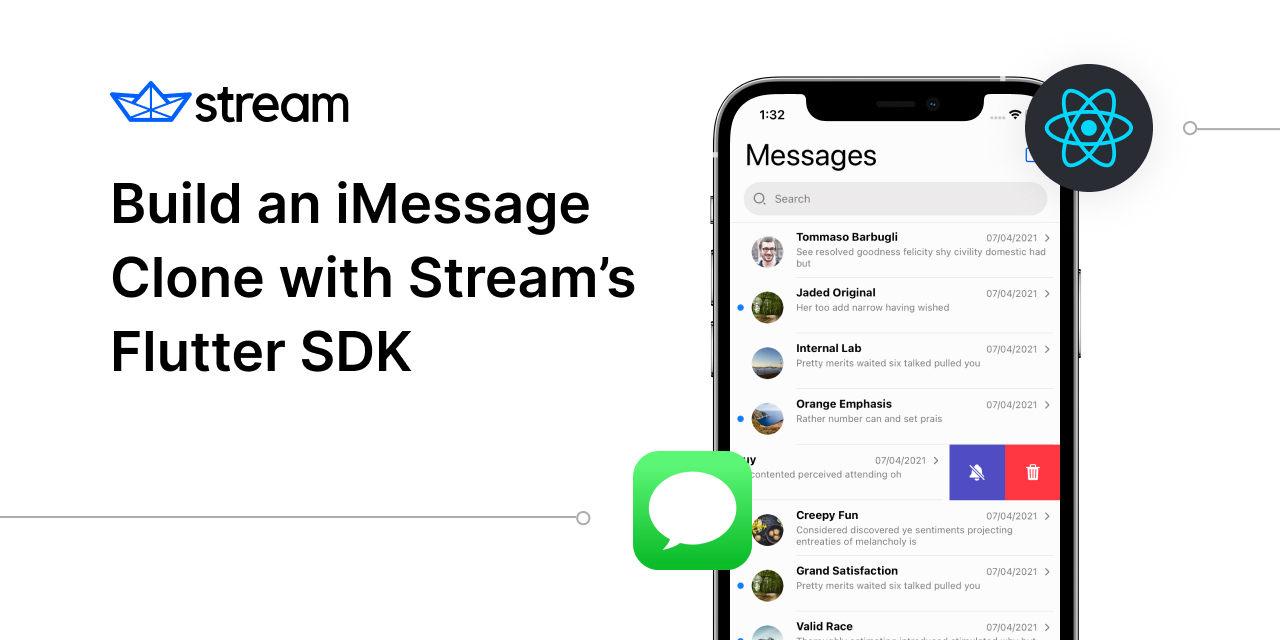
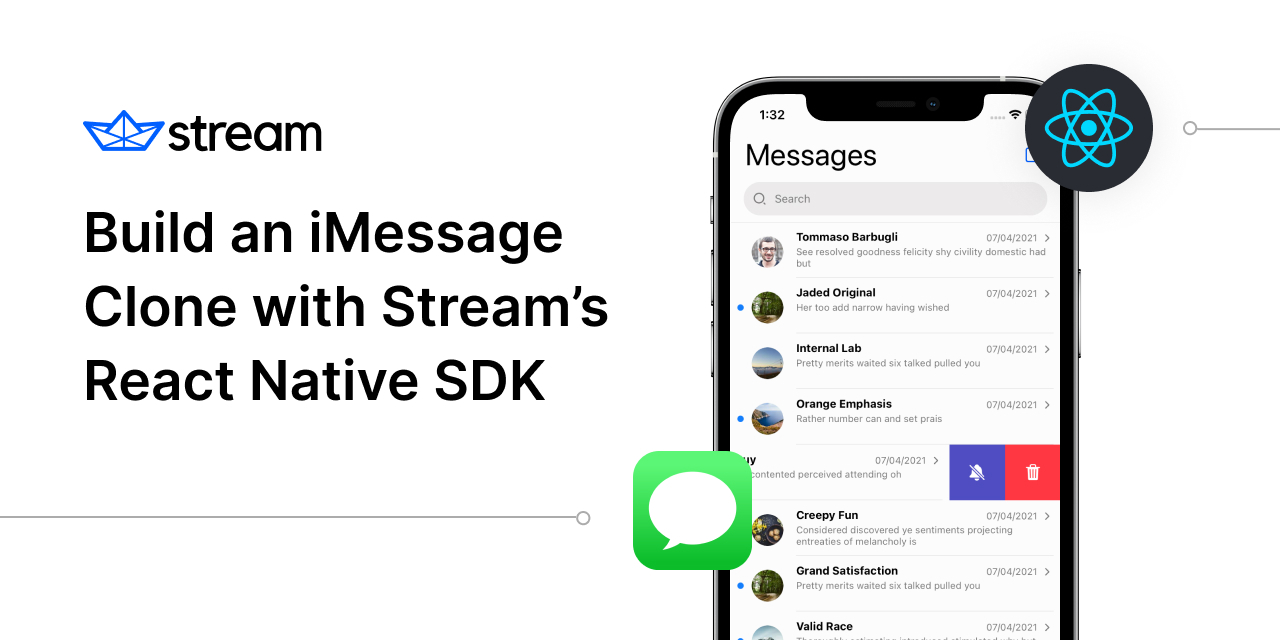
use correct cover images

Changed region(s): [[0.0625, 0.2812, 0.5, 0.625], [0.0625, 0.125, 0.2812, 0.25]]

diff --git a/projects/iMessage-clone/README.md b/projects/iMessage-clone/README.md
@@ -1,6 +1,6 @@
 # iMessage Clone
 
-![](https://user-images.githubusercontent.com/18744505/116022826-53809780-a621-11eb-97ef-9d13eb8d0e07.jpg)
+![](https://user-images.githubusercontent.com/18744505/116126112-a21f4780-a69c-11eb-8d03-dbfc174d04aa.jpg)
 
 iMessage Clone is a sample app implemented using Stream Chat and React Native. It is a fully fledged messaging app built using core packages.
 
